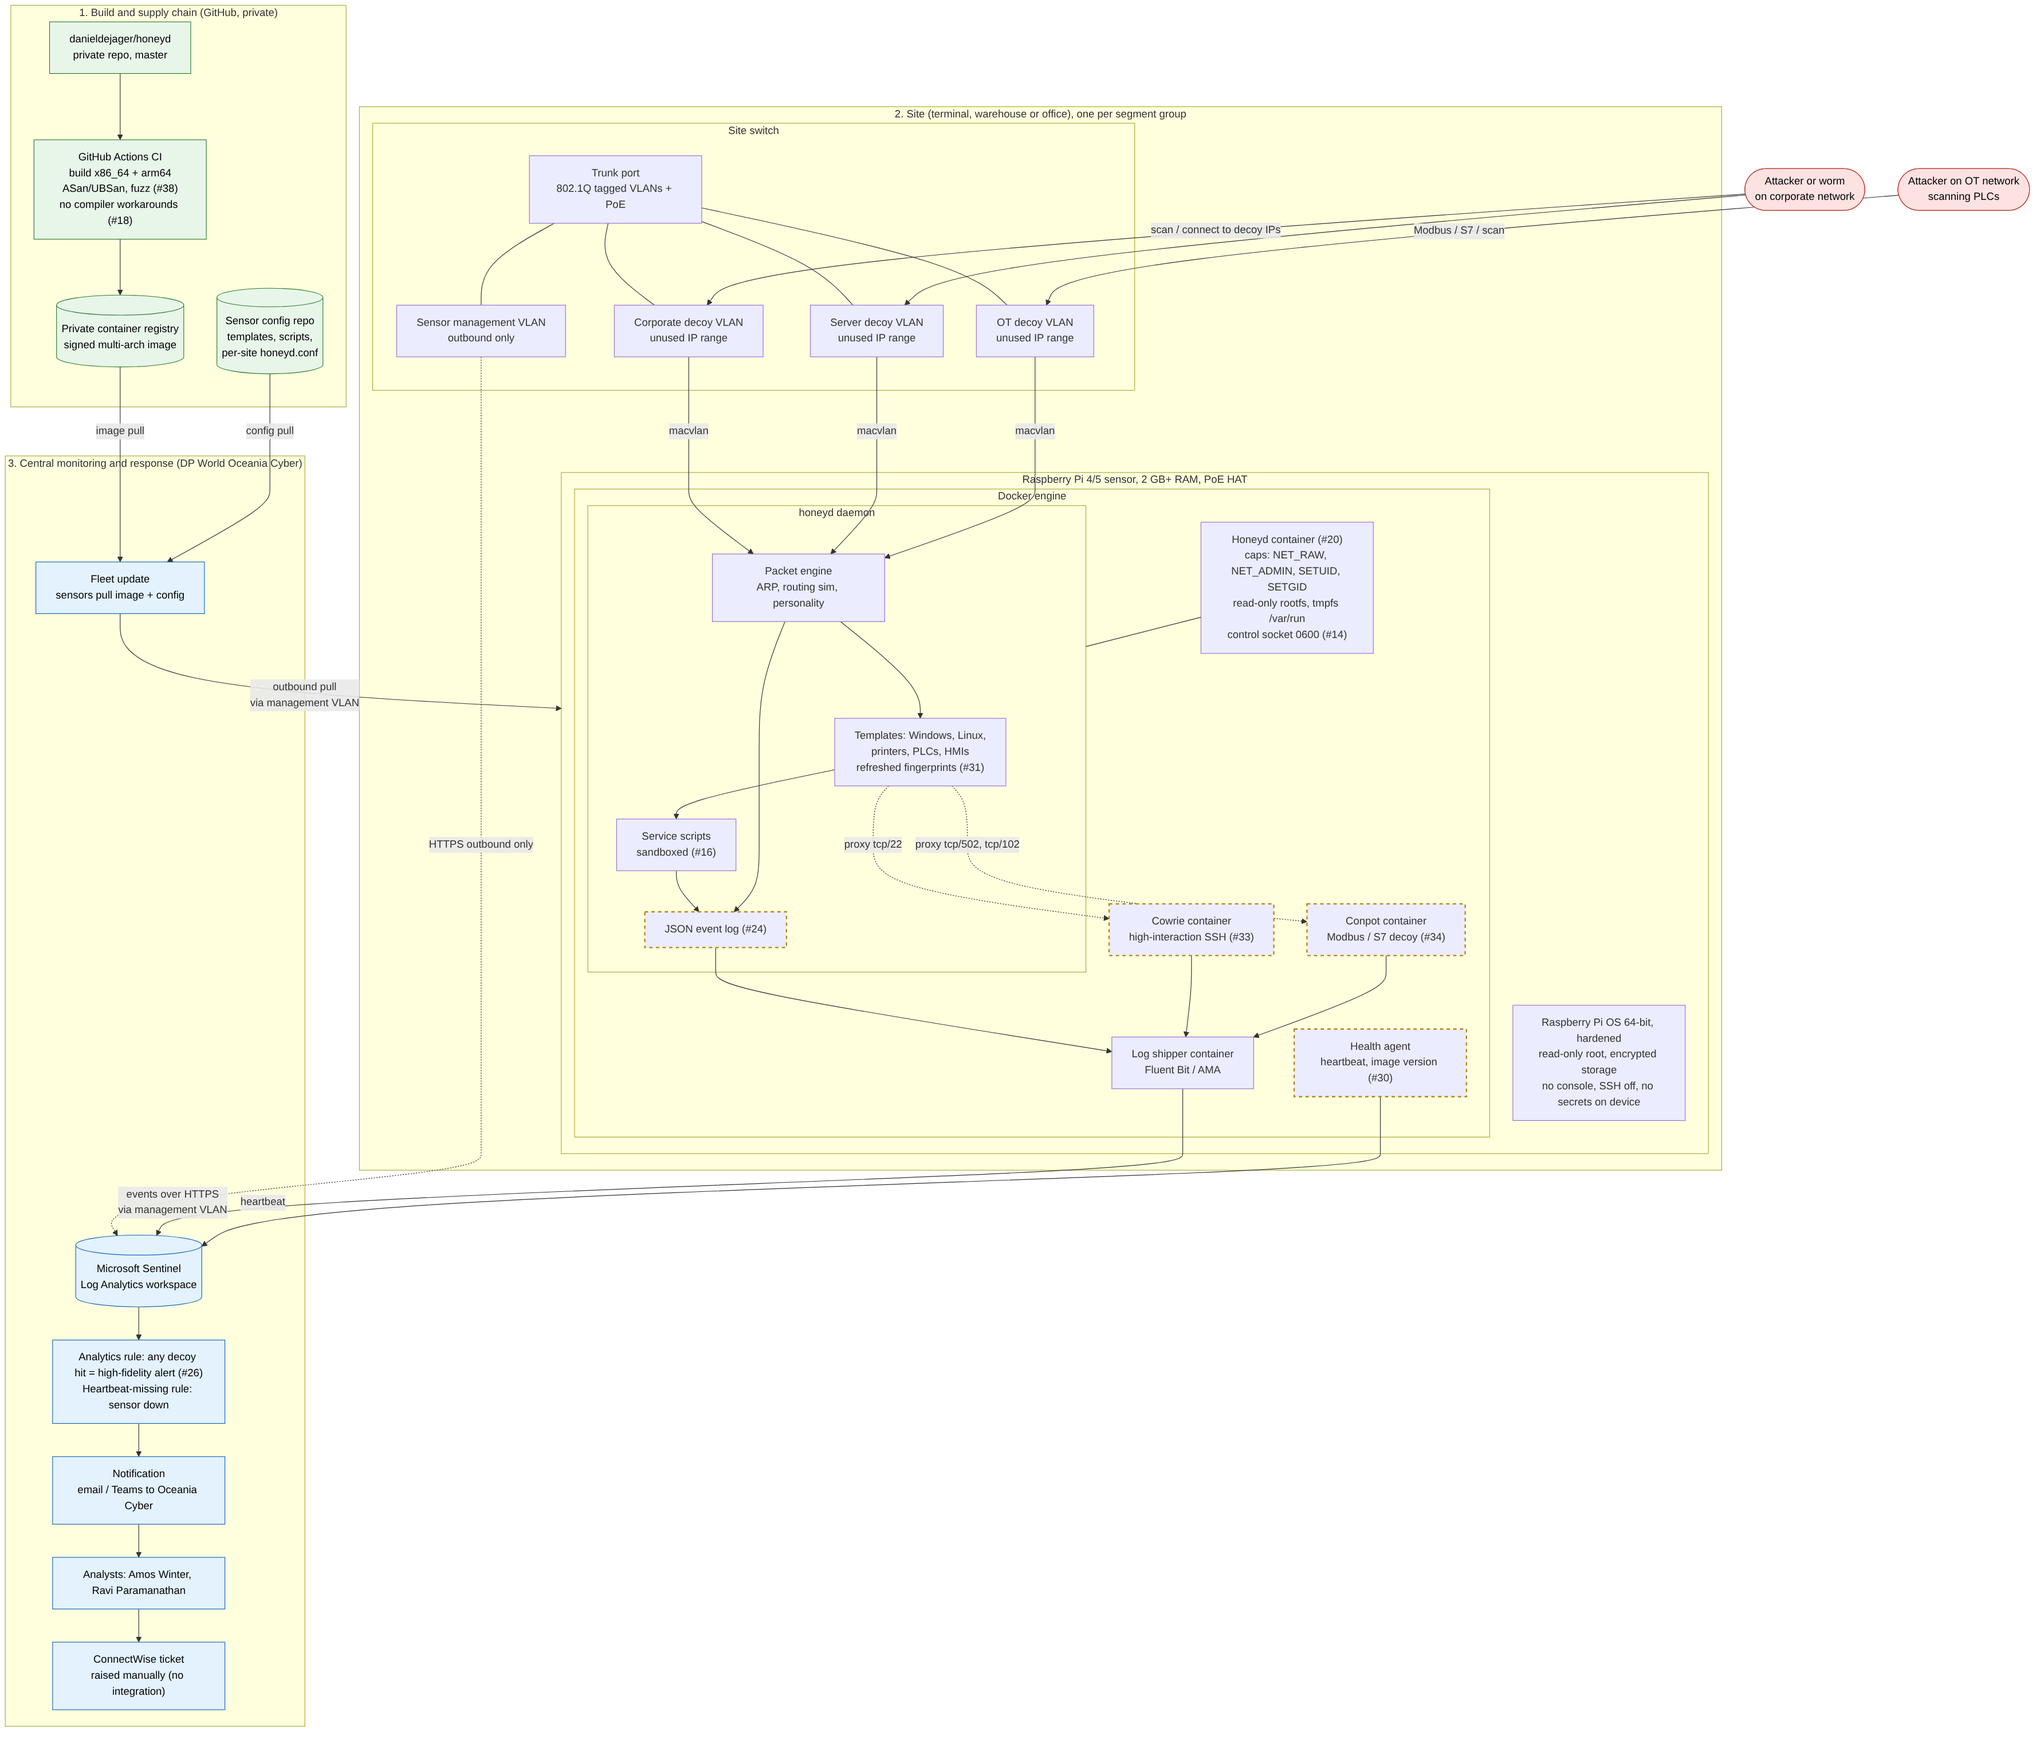
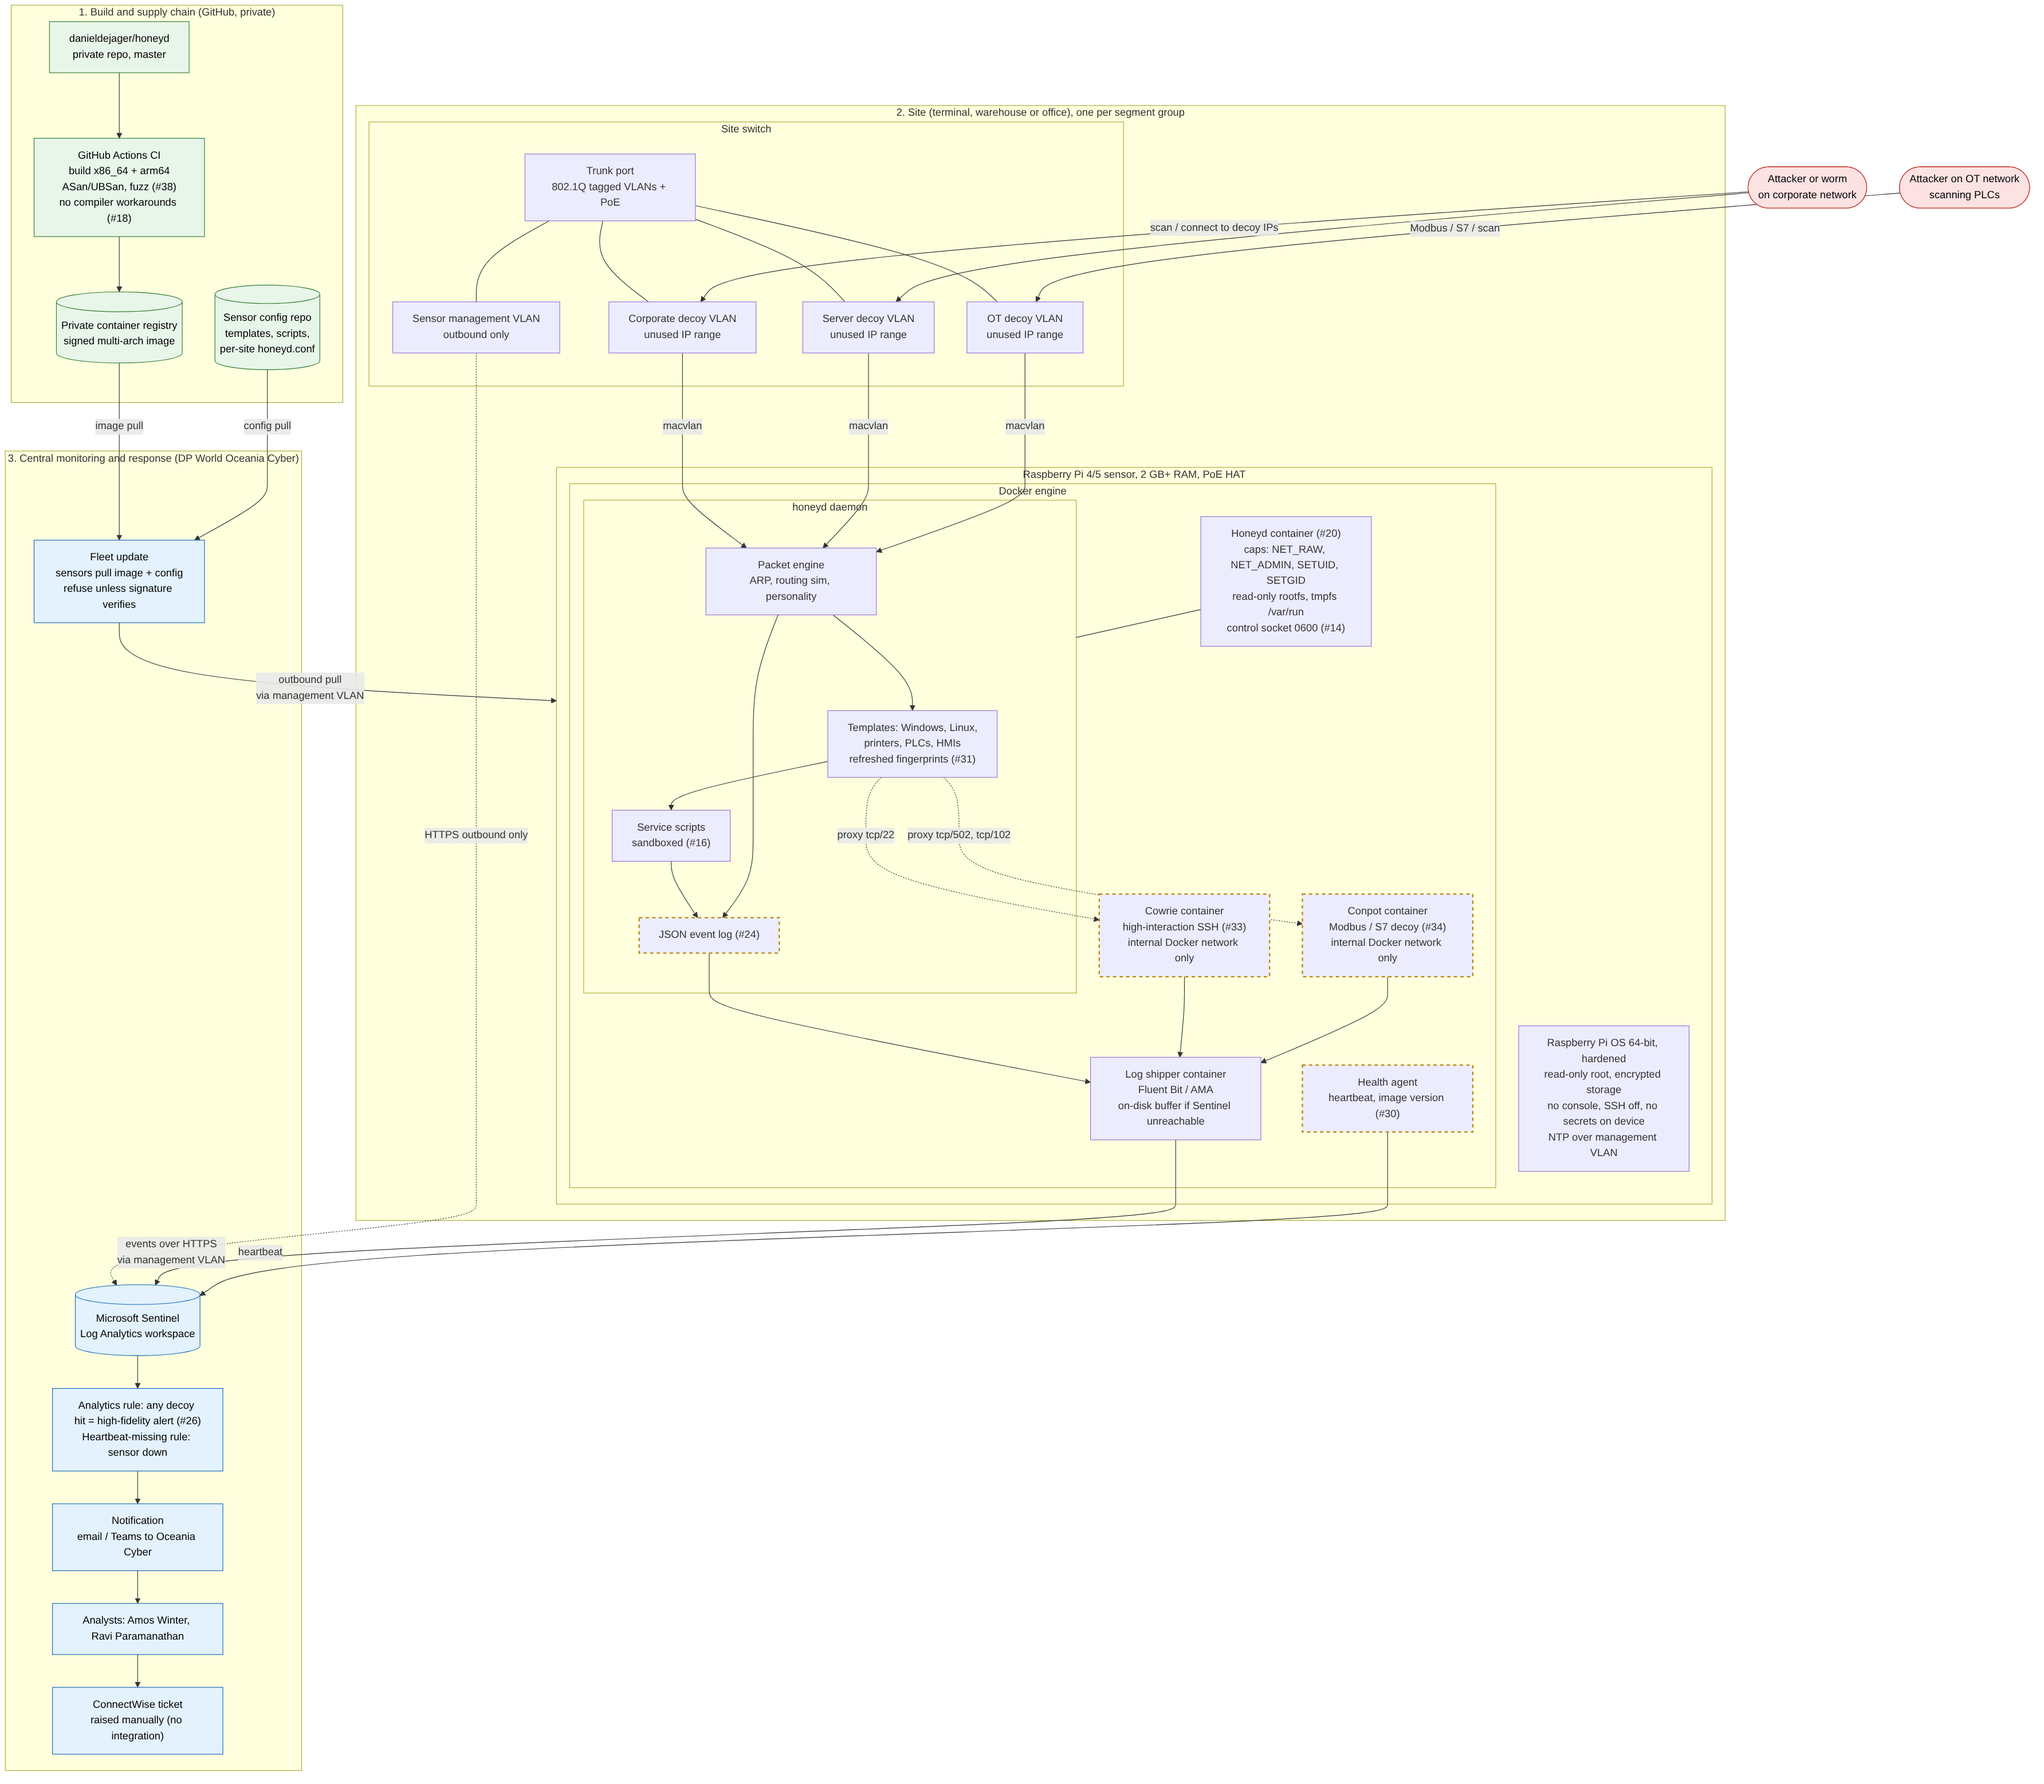
docs: fold Forge review into target architecture (signature verify, internal decoy network, buffering, NTP)

diff --git a/docs/architecture/10-target-architecture.md b/docs/architecture/10-target-architecture.md
@@ -21,6 +21,9 @@ This is the proposed way to deploy Honeyd at DP World Oceania, as discussed on 1
 - Decoy VLANs must use IP ranges that are genuinely unused.
 - The Pi's management interface reaches only Sentinel, the registry and the config repo, and never accepts inbound connections.
 - No secrets are stored on the device, because a Pi in a comms room can be stolen or opened.
+- Sensors refuse to run any image whose signature doesn't verify.
+- Cowrie and Conpot sit on an internal Docker network that only Honeyd can reach, and have no direct presence on the decoy VLANs.
+- The log shipper buffers events on disk while Sentinel is unreachable, and the Pi keeps time with NTP over the management VLAN so alert timestamps line up.
 
 ## Diagram source
 
@@ -50,7 +53,7 @@ flowchart TB
 
         subgraph PI["Raspberry Pi 4/5 sensor, 2 GB+ RAM, PoE HAT"]
             direction TB
-            os["Raspberry Pi OS 64-bit, hardened<br/>read-only root, encrypted storage<br/>no console, SSH off, no secrets on device"]
+            os["Raspberry Pi OS 64-bit, hardened<br/>read-only root, encrypted storage<br/>no console, SSH off, no secrets on device<br/>NTP over management VLAN"]
             subgraph DOCKER["Docker engine"]
                 direction TB
                 hc["Honeyd container (#20)<br/>caps: NET_RAW, NET_ADMIN, SETUID, SETGID<br/>read-only rootfs, tmpfs /var/run<br/>control socket 0600 (#14)"]
@@ -61,9 +64,9 @@ flowchart TB
                     scr["Service scripts<br/>sandboxed (#16)"]
                     jlog["JSON event log (#24)"]
                 end
-                cowrie["Cowrie container<br/>high-interaction SSH (#33)"]
-                conpot["Conpot container<br/>Modbus / S7 decoy (#34)"]
-                ship["Log shipper container<br/>Fluent Bit / AMA"]
+                cowrie["Cowrie container<br/>high-interaction SSH (#33)<br/>internal Docker network only"]
+                conpot["Conpot container<br/>Modbus / S7 decoy (#34)<br/>internal Docker network only"]
+                ship["Log shipper container<br/>Fluent Bit / AMA<br/>on-disk buffer if Sentinel unreachable"]
                 agent["Health agent<br/>heartbeat, image version (#30)"]
             end
         end
@@ -99,7 +102,7 @@ flowchart TB
         notify["Notification<br/>email / Teams to Oceania Cyber"]
         team["Analysts: Amos Winter, Ravi Paramanathan"]
         cw["ConnectWise ticket<br/>raised manually (no integration)"]
-        fleet["Fleet update<br/>sensors pull image + config"]
+        fleet["Fleet update<br/>sensors pull image + config<br/>refuse unless signature verifies"]
         sentinel --> rule --> notify --> team --> cw
     end
 
